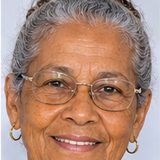
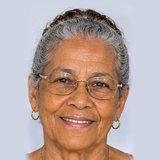
Dominó v3.9.42: caras de los bots más alejadas, con la cabeza entera
Claude-Session: https://claude.ai/code/session_01HKF46mV7qa6c38wyQzgURD

diff --git a/domino/app/src/main/assets/www/index.html b/domino/app/src/main/assets/www/index.html
@@ -2872,7 +2872,7 @@ var qrcode = function() {
 </script>
 <script>
 (()=>{
-const VERSION='v3.9.41';
+const VERSION='v3.9.42';
 document.getElementById('ver').textContent=VERSION;
 const clamp=(v,a,b)=>v<a?a:v>b?b:v;
 const inApp=!!window.KikoApp;
